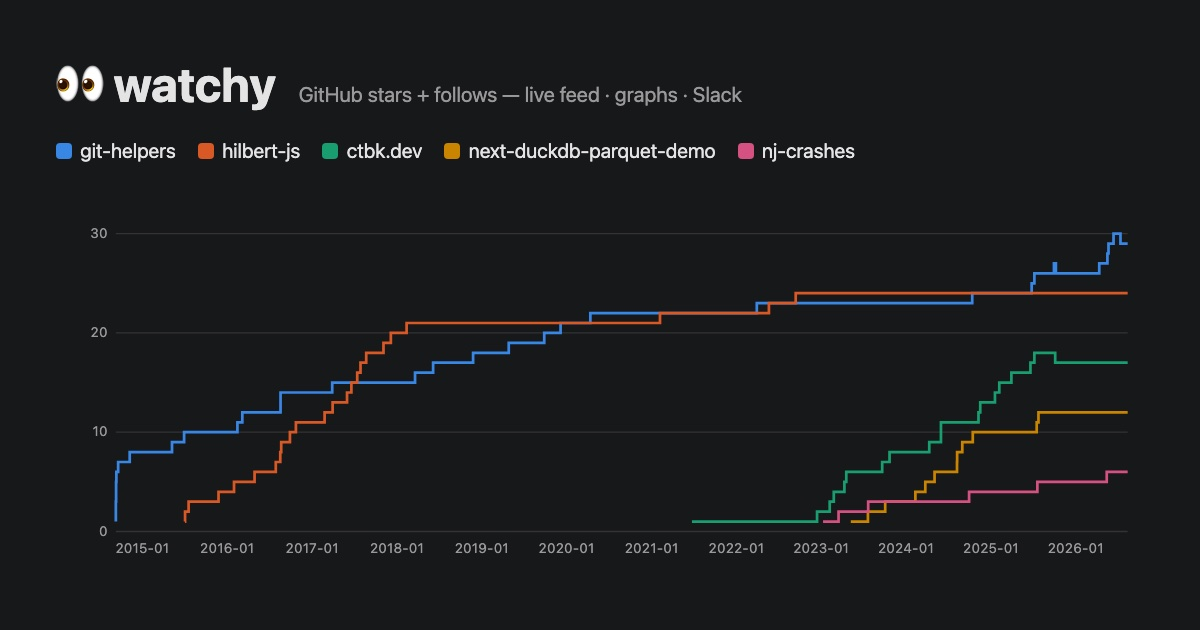
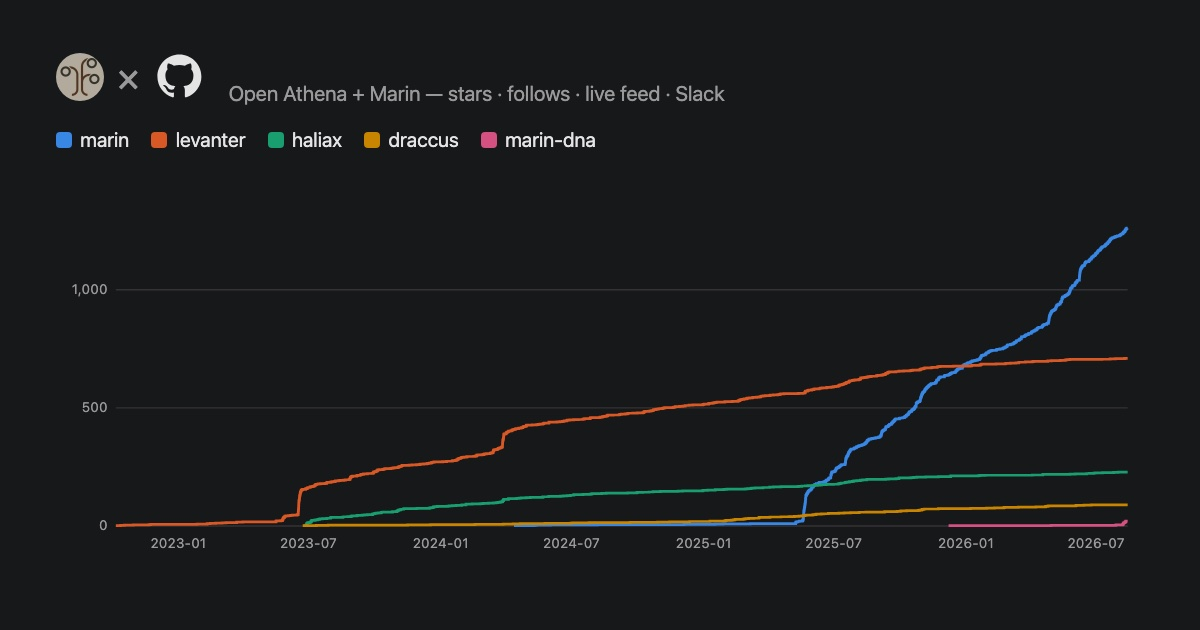
og: OA image + tags
`og.jpg` re-rendered from this instance's /og route (top-5 star series);
`index.html` title/og tags → `OA · GitHub engagement` @ gh.oa.dev.

diff --git a/www/index.html b/www/index.html
@@ -4,10 +4,10 @@
     <meta charset="UTF-8" />
     <meta name="viewport" content="width=device-width, initial-scale=1.0" />
     <link rel="icon" type="image/png" href="/org/open-athena.png" />
-    <title>watchy</title>
-    <meta property="og:title" content="watchy" />
-    <meta property="og:description" content="GitHub stars + follows: live feed, history graphs, Slack posting" />
-    <meta property="og:image" content="https://watchy.rbw.sh/og.jpg" />
+    <title>OA × GitHub</title>
+    <meta property="og:title" content="OA × GitHub" />
+    <meta property="og:description" content="Live feed of GitHub stars + follows across Open Athena + marin-community" />
+    <meta property="og:image" content="https://gh.oa.dev/og.jpg" />
   </head>
   <body>
     <div id="root"></div>
